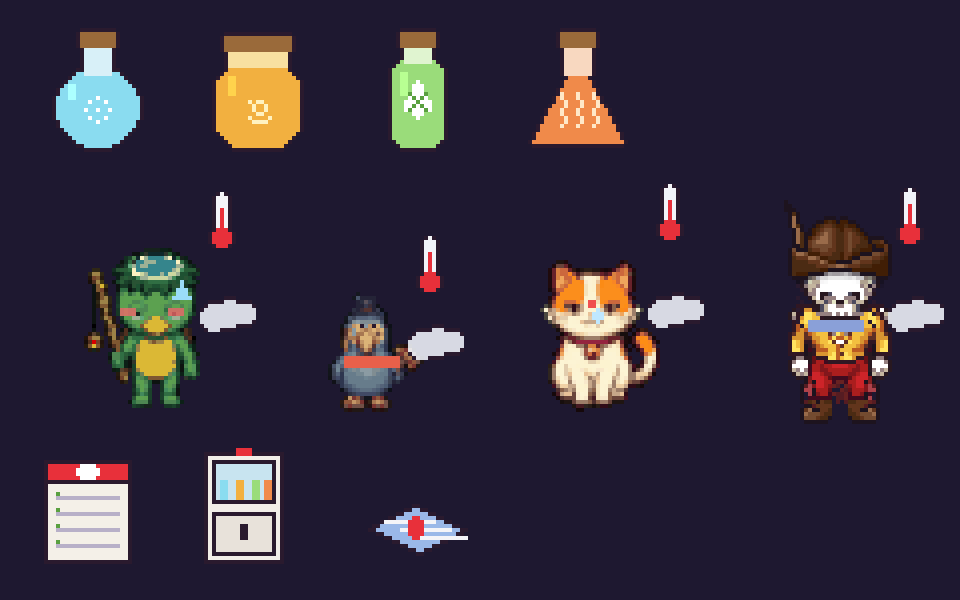
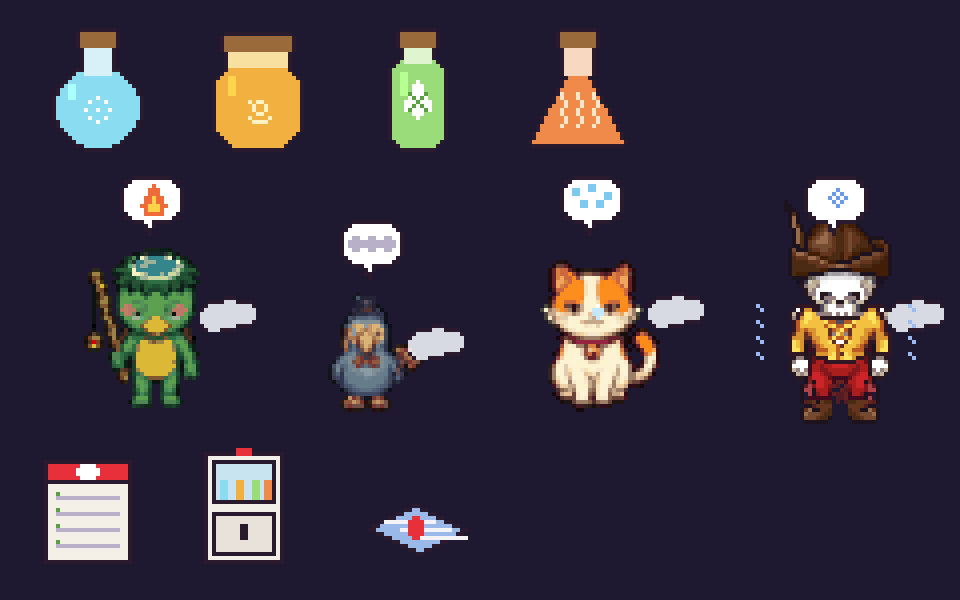
Winter cold art: symptom bubbles above the head instead of face bars
Claude-Session: https://claude.ai/code/session_01HhJ2NoNCjk5kaA3GWL7UDs

diff --git a/tools/coldwave/cold_art.py b/tools/coldwave/cold_art.py
@@ -47,18 +47,30 @@ def thermo():   # 체온계 (7 × 14)
     g.rounded_rectangle([2, 0, 4, 10], radius=1, fill=hx('#F4F4F8')); g.ellipse([1, 9, 5, 13], fill=hx('#E8303A')); g.rectangle([3, 4, 3, 10], fill=hx('#E8303A'))
     return outline(im)
 
-def overlay(sym):   # 증상 덧그림 (얼굴 위 16 × 10 · 볼 · 코 · 땀 · 떨림 표시)
+def overlay(sym):   # 증상 덧그림: 얼굴 위는 아주 살짝만 (줄 · 띠 없이)
     im = Image.new('RGBA', (20, 14)); g = ImageDraw.Draw(im)
-    if sym == 'fever':   # 빨간 볼 + 땀
-        g.rectangle([2, 8, 5, 9], fill=hx('#F06A6A', 200)); g.rectangle([14, 8, 17, 9], fill=hx('#F06A6A', 200)); g.polygon([(17, 1), (15, 5), (19, 5)], fill=hx('#9ADCF8'))
-    elif sym == 'throat':   # 목도리 + 작아진 말줄임
-        g.rectangle([3, 11, 16, 13], fill=hx('#E8604A')); [im.putpixel((7 + i * 3, 3), OL) for i in range(3)]
-    elif sym == 'nose':   # 빨간 코 + 콧물 방울
-        g.rectangle([9, 7, 10, 8], fill=hx('#F05050')); g.ellipse([10, 9, 12, 12], fill=hx('#BFE8FF'))
-    elif sym == 'chill':   # 떨림 선
-        for x in (0, 18):
-            for y in range(2, 12, 3): im.putpixel((x, y), OL); im.putpixel((x + 1, y + 1), OL)
-        g.rectangle([3, 11, 16, 13], fill=hx('#8AA0D8'))
+    if sym == 'fever':   # 빨간 볼
+        for x in (2, 15): g.ellipse([x, 7, x + 3, 9], fill=hx('#F07070', 170))
+    elif sym == 'nose':   # 콧물 방울
+        g.ellipse([10, 8, 12, 11], fill=hx('#BFE8FF', 230)); im.putpixel((11, 8), hx('#FFFFFF'))
+    return im
+
+def bubble(sym):   # 머리 위 증상 말풍선 (16 × 15): 이걸 보고 증상을 골라요
+    im = Image.new('RGBA', (16, 15)); g = ImageDraw.Draw(im)
+    g.rounded_rectangle([0, 0, 15, 11], radius=4, fill=hx('#FFFFFF'), outline=OL); g.polygon([(5, 11), (7, 14), (8, 11)], fill=hx('#FFFFFF'), outline=OL); g.line([(6, 11), (7, 11)], fill=hx('#FFFFFF'))
+    if sym == 'fever':   # 불꽃
+        g.polygon([(8, 2), (5, 7), (6, 9), (10, 9), (11, 7)], fill=hx('#F06A3A')); g.polygon([(8, 5), (7, 8), (9, 8)], fill=hx('#FFD24A'))
+    elif sym == 'throat':   # 콜록 (기침 구름 세 개)
+        for cx in (4, 8, 12): g.ellipse([cx - 2, 4, cx + 1, 7], fill=hx('#B8B0C8'))
+    elif sym == 'nose':   # 에취 (튀는 물방울)
+        for x, y in ((4, 4), (8, 3), (12, 5), (6, 7), (10, 7)): g.ellipse([x - 1, y - 1, x, y], fill=hx('#7FC8F0'))
+    elif sym == 'chill':   # 눈송이
+        for dx, dy in ((0, 0), (-2, 0), (2, 0), (0, -2), (0, 2), (-1, -1), (1, 1), (-1, 1), (1, -1)): im.putpixel((8 + dx, 5 + dy), hx('#6A9AE8'))
+    return im
+
+def shiver(h):   # 오한일 때 몸 양옆 떨림 표시 (세로 h)
+    im = Image.new('RGBA', (4, h))
+    for y in range(2, h - 2, 4): im.putpixel((1, y), hx('#9ABCF0')); im.putpixel((2, y + 1), hx('#9ABCF0'))
     return im
 
 def chart():   # 진료 수첩 (24 × 28)
@@ -91,9 +103,11 @@ if __name__ == '__main__':
     P = Image.new('RGBA', (240, 150), hx('#1E1830'))
     for i, k in enumerate(K): P.alpha_composite(bottle(k), (8 + i * 40, 6))
     FACE = { 0: (13, 14, 31), 2: (20, 16, 28), 14: (21, 27, 21), 16: (16, 15, 30) }   # index.html NPC_FACE (x, y, 크기)
-    for i, (row, k) in enumerate(((2, 'fever'), (14, 'throat'), (0, 'nose'), (16, 'chill'))):   # 캇파 · 도도 · 나비 · 본 위에 증상 덧그림 (얼굴 틀 기준)
+    for i, (row, k) in enumerate(((2, 'fever'), (14, 'throat'), (0, 'nose'), (16, 'chill'))):   # 캇파 열 · 도도 목감기 · 나비 콧물 · 본 오한
         fr = npcs.crop((0, row * 64, 64, row * 64 + 64)); x0 = 4 + i * 58; P.alpha_composite(fr, (x0, 44)); fx, fy, fs = FACE[row]
-        P.alpha_composite(overlay(k), (x0 + fx + fs // 2 - 10, 44 + fy + int(fs * .35))); P.alpha_composite(breath(), (x0 + fx + fs - 2, 44 + fy + fs // 2)); P.alpha_composite(thermo(), (x0 + fx + fs, 44 + max(0, fy - 12)))
+        P.alpha_composite(overlay(k), (x0 + fx + fs // 2 - 10, 44 + fy + int(fs * .35))); P.alpha_composite(breath(), (x0 + fx + fs - 2, 44 + fy + fs // 2))
+        P.alpha_composite(bubble(k), (x0 + fx + fs // 2 - 8, 44 + max(0, fy - 16)))
+        if k == 'chill': P.alpha_composite(shiver(20), (x0 + fx - 6, 44 + fy + fs // 2)); P.alpha_composite(shiver(20), (x0 + fx + fs + 2, 44 + fy + fs // 2))
     P.alpha_composite(chart(), (10, 114)); P.alpha_composite(cabinet(), (50, 112)); P.alpha_composite(blanket(), (90, 124))
     P.resize((P.width * 4, P.height * 4), Image.NEAREST).save(O + '/preview.png')
     print('ok')
